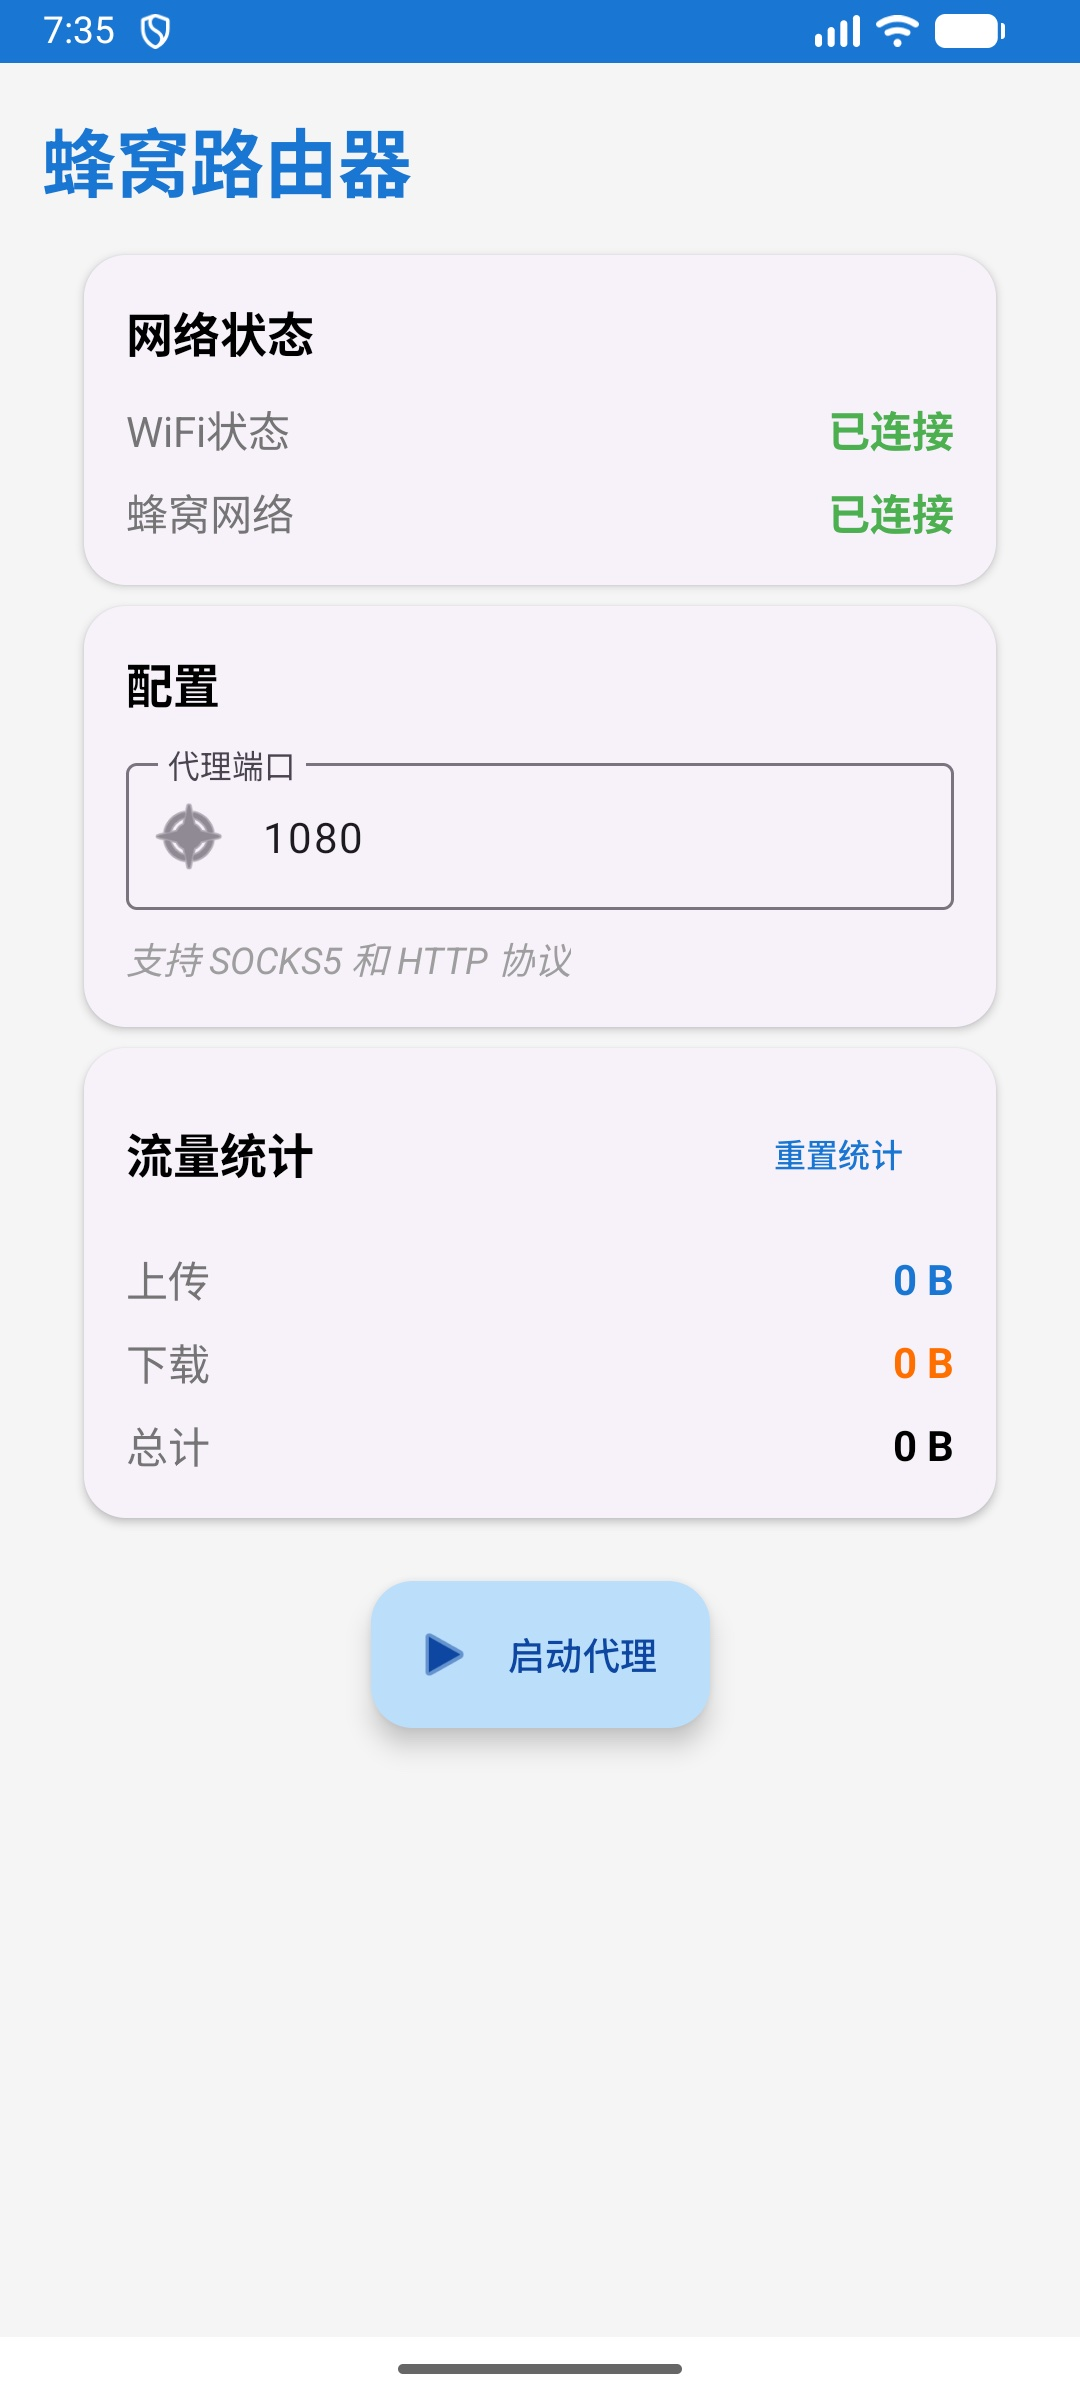
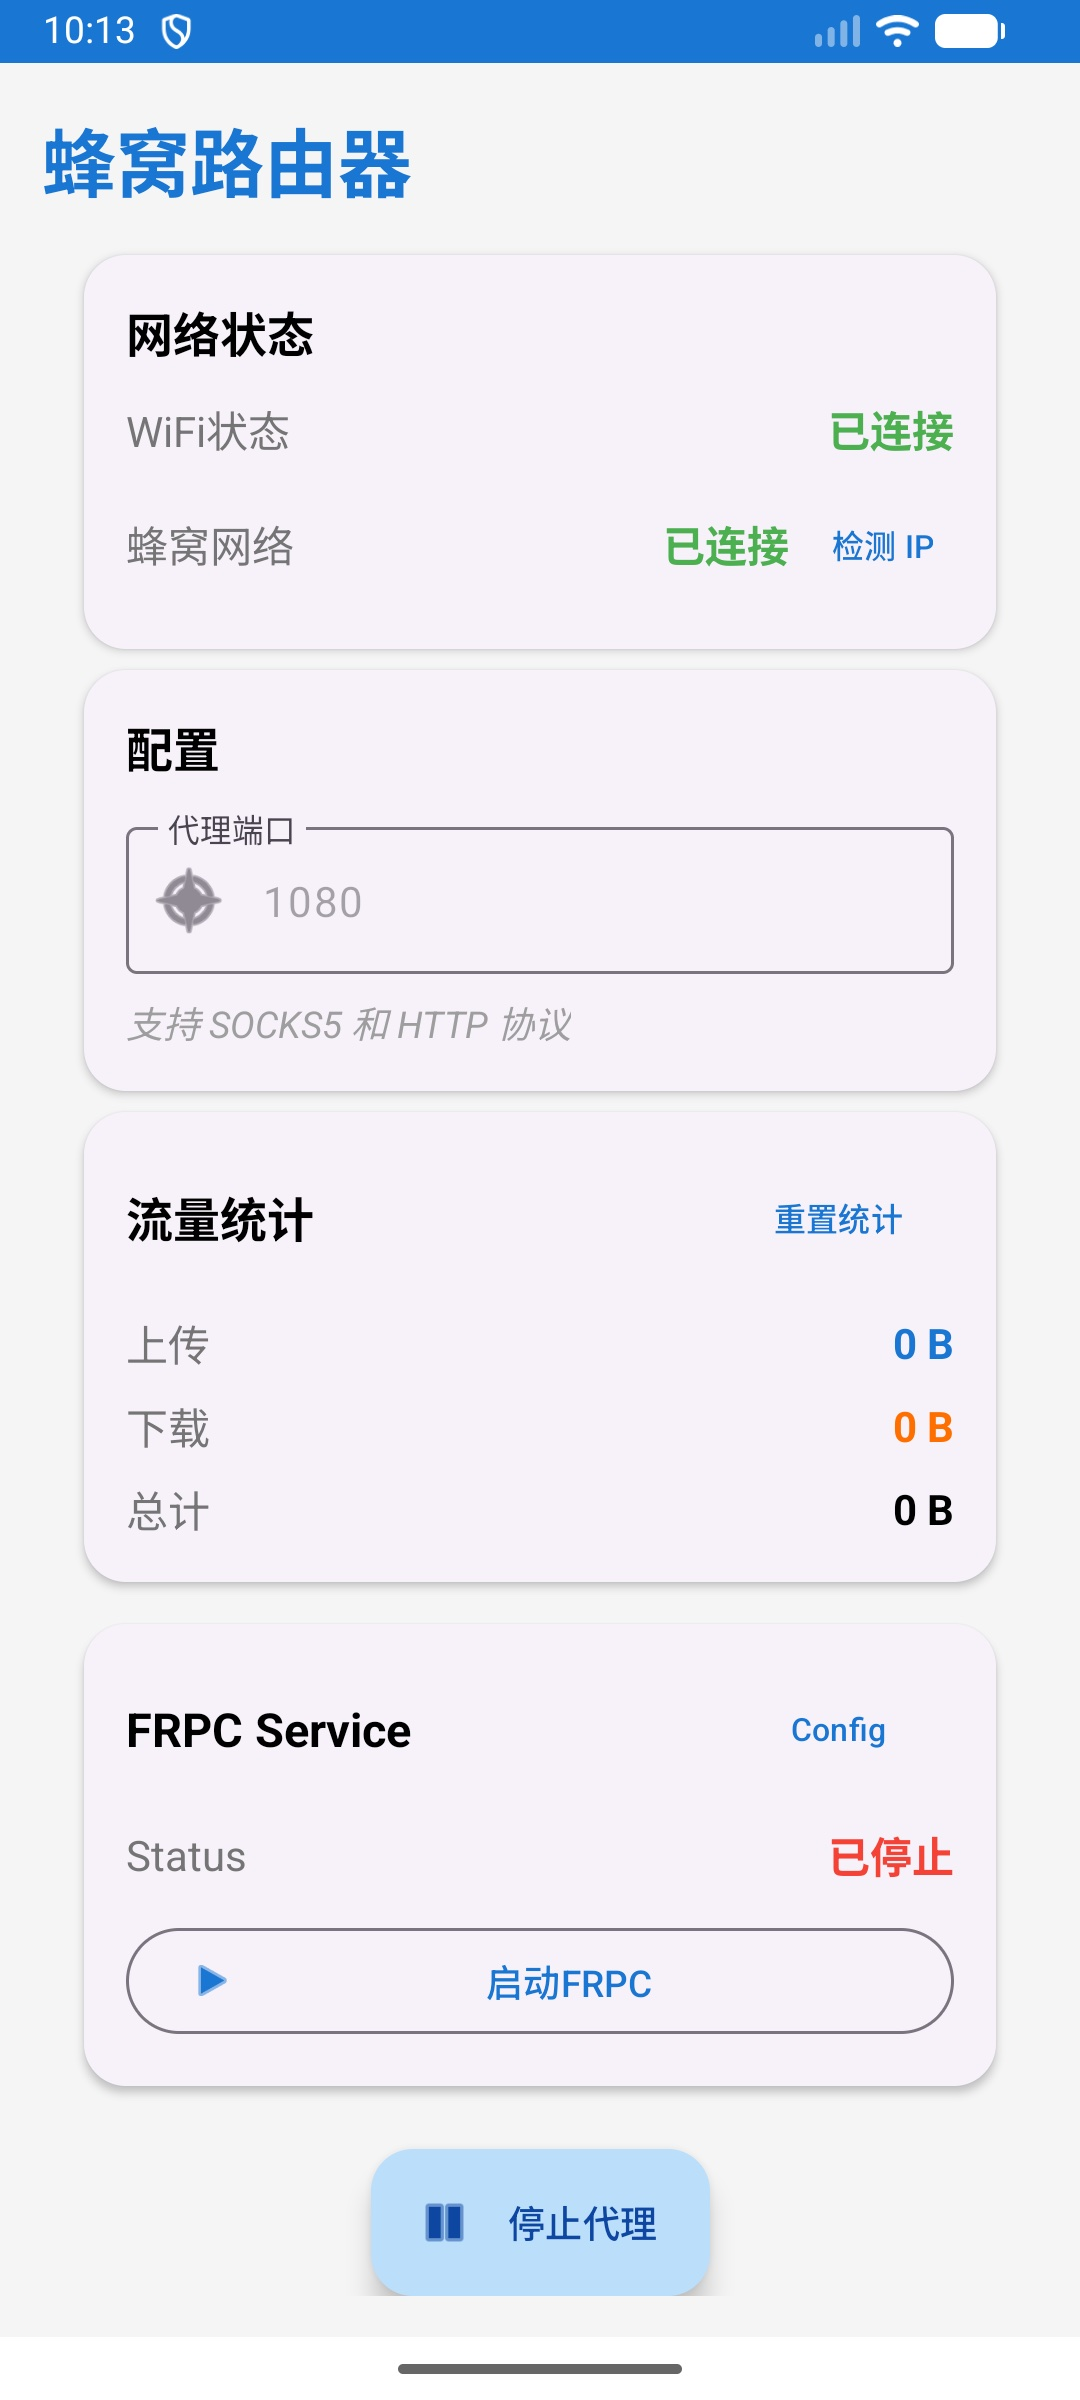
feat: Introduce FRPC service management UI and add cellular IP address check functionality.

diff --git a/app/src/main/java/com/cellularrouter/MainActivity.kt b/app/src/main/java/com/cellularrouter/MainActivity.kt
@@ -28,6 +28,10 @@ import com.cellularrouter.frpc.FrpcService
 import com.cellularrouter.frpc.ProxyType
 import com.google.android.material.textfield.TextInputEditText
 import com.google.android.material.switchmaterial.SwitchMaterial
+import kotlinx.coroutines.CoroutineScope
+import kotlinx.coroutines.Dispatchers
+import kotlinx.coroutines.launch
+import kotlinx.coroutines.withContext
 
 /**
  * Main activity for the Cellular Router app
@@ -136,6 +140,80 @@ class MainActivity : AppCompatActivity() {
         // Bind to services
         bindToService()
         bindToFrpcService()
+
+        // Check IP button
+        try {
+            binding.checkIpButton.setOnClickListener {
+                checkProxyIp()
+            }
+        } catch (e: Exception) {
+            // Button might not be in layout yet
+        }
+    }
+
+    private fun checkProxyIp() {
+        val networkManager = proxyService?.getNetworkManager()
+        if (networkManager == null) {
+            Toast.makeText(this, "服务未连接", Toast.LENGTH_SHORT).show()
+            return
+        }
+        
+        if (!networkManager.isCellularAvailable()) {
+            Toast.makeText(this, R.string.error_cellular_unavailable, Toast.LENGTH_SHORT).show()
+            return
+        }
+
+        val dialog = AlertDialog.Builder(this)
+            .setTitle(R.string.check_ip_title)
+            .setMessage(R.string.checking_ip)
+            .setPositiveButton("OK", null)
+            .show()
+
+        CoroutineScope(Dispatchers.IO).launch {
+            try {
+                val network = networkManager.getCellularNetworkObject()
+                if (network == null) {
+                   withContext(Dispatchers.Main) {
+                        dialog.dismiss()
+                        Toast.makeText(this@MainActivity, R.string.error_cellular_unavailable, Toast.LENGTH_SHORT).show()
+                    }
+                    return@launch
+                }
+
+                val url = java.net.URL("http://ip-api.com/json")
+                val connection = network.openConnection(url) as java.net.HttpURLConnection
+                connection.connectTimeout = 10000
+                connection.readTimeout = 10000
+                
+                val response = connection.inputStream.bufferedReader().use { it.readText() }
+                
+                // Simple JSON parsing to find "query" field which holds the IP
+                val ip = try {
+                    val queryIndex = response.indexOf("\"query\":\"")
+                    if (queryIndex != -1) {
+                        val startIndex = queryIndex + 9
+                        val endIndex = response.indexOf("\"", startIndex)
+                        if (endIndex != -1) {
+                            response.substring(startIndex, endIndex)
+                        } else response
+                    } else response
+                } catch (e: Exception) {
+                    response
+                }
+
+                withContext(Dispatchers.Main) {
+                    if (dialog.isShowing) {
+                        dialog.setMessage("Current IP: $ip\n\nFull Response:\n$response")
+                    }
+                }
+            } catch (e: Exception) {
+                withContext(Dispatchers.Main) {
+                    if (dialog.isShowing) {
+                        dialog.setMessage(getString(R.string.error_check_ip, e.message))
+                    }
+                }
+            }
+        }
     }
     
     override fun onResume() {

diff --git a/app/src/main/java/com/cellularrouter/frpc/FrpcManager.kt b/app/src/main/java/com/cellularrouter/frpc/FrpcManager.kt
@@ -160,7 +160,7 @@ class FrpcManager(
             
             try {
                 BufferedReader(InputStreamReader(process.inputStream)).use { reader ->
-                    var line: String?
+                    var line: String? = null
                     while (isRunning && reader.readLine().also { line = it } != null) {
                         Log.d(TAG, "FRPC: $line")
                     }

diff --git a/app/src/main/java/com/cellularrouter/network/NetworkManager.kt b/app/src/main/java/com/cellularrouter/network/NetworkManager.kt
@@ -160,6 +160,13 @@ class NetworkManager(private val context: Context) {
             else -> "无网络"
         }
     }
+
+    /**
+     * Get the underlying Cellular Network object
+     */
+    fun getCellularNetworkObject(): Network? {
+        return cellularNetwork
+    }
     
     /**
      * Find and cache WiFi network
